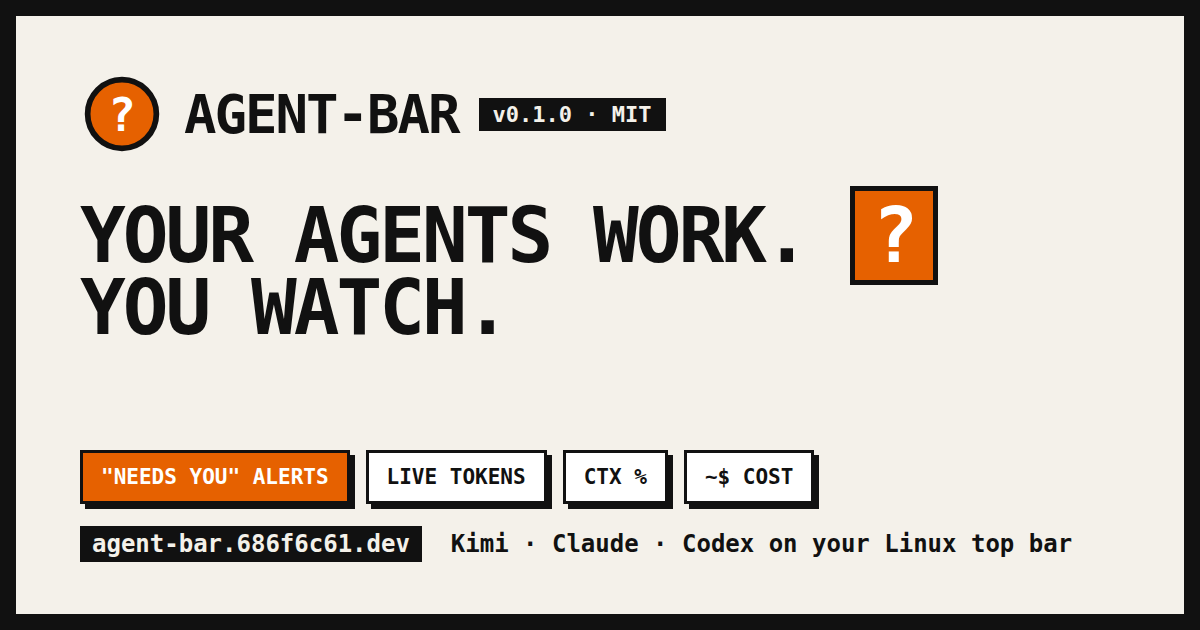
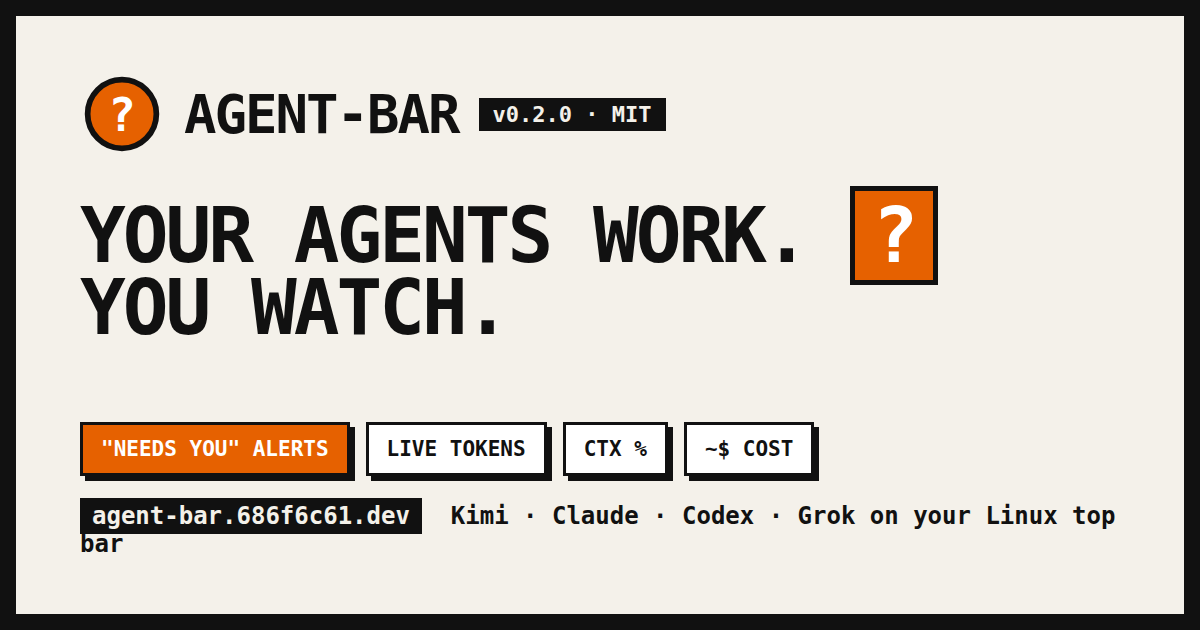
landing: FAQ + Author sections, Grok row, og image v0.2.0

Changed region(s): [[0.0617, 0.6635, 0.925, 0.9048]]

diff --git a/index.html b/index.html
@@ -189,6 +189,41 @@
   pre .c { color: #9a9996; }
   pre .p { color: #57e389; }
 
+  /* ---------- faq ---------- */
+  details {
+    background: #fff; border: 3px solid var(--ink); margin-bottom: 14px;
+    box-shadow: 6px 6px 0 var(--ink);
+  }
+  summary {
+    cursor: pointer; padding: 16px 20px; font-weight: 900; font-size: 16px;
+    text-transform: uppercase; list-style: none;
+  }
+  summary::before { content: "+ "; color: var(--accent); }
+  details[open] summary::before { content: "− "; }
+  summary:hover { background: var(--accent); color: #fff; }
+  summary:hover::before { color: #fff; }
+  details p { padding: 0 20px 16px; font-size: 14px; max-width: 70ch; }
+
+  /* ---------- author ---------- */
+  .author {
+    display: flex; flex-wrap: wrap; gap: 24px; align-items: center;
+    background: #fff; border: 3px solid var(--ink); padding: 24px;
+    box-shadow: 8px 8px 0 var(--ink);
+  }
+  .author .avatar {
+    width: 72px; height: 72px; border: 3px solid var(--ink); border-radius: 0;
+    background: var(--accent); color: #fff; font-size: 40px; font-weight: 900;
+    display: flex; align-items: center; justify-content: center; flex: none;
+  }
+  .author h3 { font-size: 24px; font-weight: 900; text-transform: uppercase; }
+  .author p { font-size: 14px; }
+  .author .links a {
+    display: inline-block; margin: 8px 10px 0 0; padding: 6px 14px;
+    border: 2px solid var(--ink); font-weight: 800; font-size: 13px;
+    color: var(--ink); text-decoration: none;
+  }
+  .author .links a:hover { background: var(--ink); color: var(--paper); }
+
   /* ---------- footer ---------- */
   footer { padding: 40px 20px; display: flex; flex-wrap: wrap; gap: 20px; justify-content: space-between; align-items: center; }
   footer .big { font-size: clamp(24px, 4vw, 44px); font-weight: 900; text-transform: uppercase; }
@@ -201,11 +236,12 @@
 <div class="topbar">
   <a href="#" class="brand">
     <svg viewBox="0 0 22 22" aria-hidden="true"><circle cx="11" cy="11" r="9" fill="#e66100" stroke="#111" stroke-width="1.5"/><text x="11" y="15.5" font-family="monospace" font-size="12" font-weight="bold" fill="#fff" text-anchor="middle">?</text></svg>
-    <strong>AGENT-BAR</strong>&nbsp;v0.1.0
+    <strong>AGENT-BAR</strong>&nbsp;v0.2.0
   </a>
   <nav>
     <a href="#features"><svg viewBox="0 0 16 16" fill="#111"><path d="M1 1h6v6H1zM9 1h6v6H9zM1 9h6v6H1zM9 9h6v6H9z"/></svg>Features</a>
     <a href="#support"><svg viewBox="0 0 16 16" fill="#111"><path d="M1 2h14v2H1zM1 7h14v2H1zM1 12h14v2H1z"/></svg>Support</a>
+    <a href="#faq"><svg viewBox="0 0 16 16" fill="#111"><circle cx="8" cy="8" r="7" fill="none" stroke="#111" stroke-width="2"/><text x="8" y="11.5" font-size="9" font-weight="bold" fill="#111" text-anchor="middle">?</text></svg>FAQ</a>
     <a href="#install"><svg viewBox="0 0 16 16" fill="#111"><path d="M8 1v9M4.5 6.5 8 10l3.5-3.5M2 13h12v2H2z" stroke="#111" stroke-width="2" fill="none"/></svg>Install</a>
     <a href="https://github.com/686f6c61/agent-bar"><svg viewBox="0 0 16 16" fill="#111"><path d="M8 0C3.58 0 0 3.58 0 8c0 3.54 2.29 6.53 5.47 7.59.4.07.55-.17.55-.38 0-.19-.01-.82-.01-1.49-2.01.37-2.53-.49-2.69-.94-.09-.23-.48-.94-.82-1.13-.28-.15-.68-.52-.01-.53.63-.01 1.08.58 1.23.82.72 1.21 1.87.87 2.33.66.07-.52.28-.87.51-1.07-1.78-.2-3.64-.89-3.64-3.95 0-.87.31-1.59.82-2.15-.08-.2-.36-1.02.08-2.12 0 0 .67-.21 2.2.82.64-.18 1.32-.27 2-.27s1.36.09 2 .27c1.53-1.04 2.2-.82 2.2-.82.44 1.1.16 1.92.08 2.12.51.56.82 1.27.82 2.15 0 3.07-1.87 3.75-3.65 3.95.29.25.54.73.54 1.48 0 1.07-.01 1.93-.01 2.2 0 .21.15.46.55.38A8.01 8.01 0 0 0 16 8c0-4.42-3.58-8-8-8z"/></svg>GitHub ↗</a>
   </nav>
@@ -215,7 +251,7 @@
   <h1>Your agents<br>work. <span class="q">?</span><br>You watch.</h1>
   <p>
     AGENT-BAR is a Linux top-bar indicator for AI coding agents —
-    <strong>Kimi Code</strong>, <strong>Claude Code</strong> and <strong>Codex</strong>.
+    <strong>Kimi Code</strong>, <strong>Claude Code</strong>, <strong>Codex</strong> and <strong>Grok</strong>.
     It taps you on the shoulder the exact moment an agent is stuck waiting for you,
     counts every token live, and tells you what the day cost.
   </p>
@@ -282,6 +318,7 @@
     <tr><td><strong>Kimi Code</strong></td><td class="yes">YES</td><td class="yes">YES — PermissionRequest + Notification</td><td class="yes">YES</td></tr>
     <tr><td><strong>Claude Code</strong></td><td class="yes">YES</td><td class="yes">YES — Notification + PermissionRequest</td><td class="yes">YES</td></tr>
     <tr><td><strong>Codex</strong></td><td class="yes">YES — turn complete</td><td class="no">NO — no such hook exists</td><td class="yes">YES — cumulative</td></tr>
+    <tr><td><strong>Grok</strong></td><td class="yes">YES</td><td class="yes">YES — derived from its event stream</td><td class="yes">YES — per-turn usage</td></tr>
   </table>
   <p style="margin-top:16px;font-size:14px">
     Hooks are observational and fail-open: agent-bar can never block or break your CLI sessions.
@@ -306,12 +343,62 @@
   </p>
 </section>
 
+<section id="faq">
+  <span class="tag">FAQ</span>
+  <h2>Questions, answered.</h2>
+  <details open>
+    <summary>Does it spy on my sessions?</summary>
+    <p>No telemetry, no network calls, nothing leaves your machine. agent-bar only reads the session files your CLIs already write locally and shows them in your panel. The code is MIT — audit it, it's small.</p>
+  </details>
+  <details>
+    <summary>Can it break or block my CLI sessions?</summary>
+    <p>No. Hooks are observational and fail-open by design: even if agent-bar crashes mid-hook, the CLI continues as if nothing happened. Grok isn't even hooked — we just watch its files.</p>
+  </details>
+  <details>
+    <summary>Which desktops are supported?</summary>
+    <p>Anything with an AppIndicator / StatusNotifierItem tray: GNOME (Ubuntu ships the extension), KDE Plasma, XFCE, Cinnamon, MATE… X11 and Wayland.</p>
+  </details>
+  <details>
+    <summary>Why doesn't Codex alert "needs you"?</summary>
+    <p>Codex only exposes a turn-complete notification — there is no waiting-for-input signal to hook. The day Codex adds one, we'll support it. Tokens and completion work fine.</p>
+  </details>
+  <details>
+    <summary>My token count looks huge. Is that real?</summary>
+    <p>Most of it is usually cache-read: the context re-sent on every model call. Open the menu or <code>agent-bar stats</code> for the in/out/cache breakdown, or flip "Include cache-read in totals" off in Settings to count fresh tokens only.</p>
+  </details>
+  <details>
+    <summary>How accurate is the cost?</summary>
+    <p>It's an estimate from an editable price table (vendors reprice; many CLIs are subscriptions). We compute it from fresh tokens only — input, output and cache-write. If you're on a flat plan, your marginal cost is whatever your plan says, not our number.</p>
+  </details>
+  <details>
+    <summary>How do I uninstall?</summary>
+    <p><code>./scripts/uninstall.sh</code> — removes the daemon, the systemd unit and every hook it registered. Your original CLI configs are restorable from the <code>*.agent-bar.bak</code> backups.</p>
+  </details>
+</section>
+
+<section id="author">
+  <span class="tag">Author</span>
+  <h2>Built by 686f6c61.</h2>
+  <div class="author">
+    <div class="avatar">?</div>
+    <div>
+      <h3>686f6c61</h3>
+      <p>Builds tools that watch other tools work. agent-bar is MIT, no telemetry, PRs welcome.</p>
+      <div class="links">
+        <a href="https://github.com/686f6c61/agent-bar">GitHub repo</a>
+        <a href="https://x.com/686f6c61">@686f6c61 on X</a>
+        <a href="https://github.com/686f6c61/agent-bar/issues">Report a bug</a>
+      </div>
+    </div>
+  </div>
+</section>
+
 <footer>
   <div class="big">MIT. OSS. No telemetry.</div>
   <div>
     <a href="https://github.com/686f6c61/agent-bar">GitHub</a> ·
     <a href="https://x.com/686f6c61">@686f6c61 on X</a> ·
-    <a href="https://github.com/686f6c61/agent-bar/releases/tag/v0.1.0">v0.1.0</a> ·
+    <a href="https://github.com/686f6c61/agent-bar/releases/tag/v0.2.0">v0.2.0</a> ·
     <a href="https://github.com/686f6c61/agent-bar/issues">Issues</a> ·
     built by <a href="https://github.com/686f6c61">686f6c61</a>
   </div>
